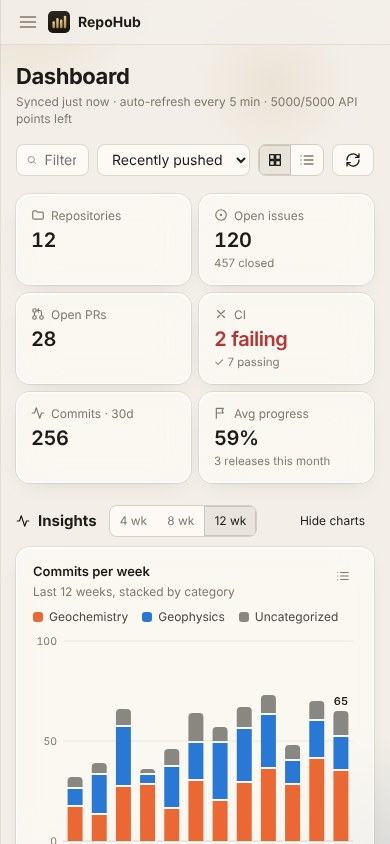
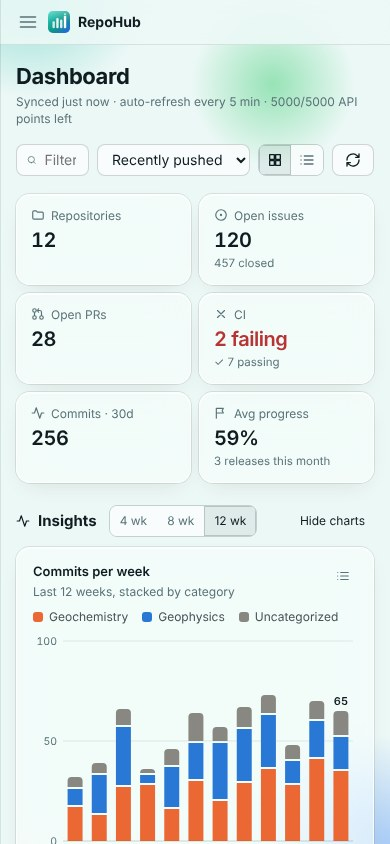
RepoHub: Lagoon colors

diff --git a/repohub/index.html b/repohub/index.html
@@ -11,19 +11,19 @@
 <meta property="og:image" content="https://duserzym.github.io/repohub/img/dashboard.jpg">
 <style>
   :root {
-    --bg: #f3efe8; --ink: #1d1b18; --ink-2: #4b463e; --muted: #80786b;
-    --accent: #846430; --accent-2: #a9864a; --accent-fg: #fffaf3;
-    --glass: rgb(255 253 249 / 0.6); --edge: rgb(255 255 255 / 0.75); --line: rgb(70 56 36 / 0.11);
-    --blob-1: rgb(196 160 98 / 0.24); --blob-2: rgb(118 140 164 / 0.2);
+    --bg: #ecf8f6; --ink: #0f1d20; --ink-2: #3a5257; --muted: #5a7378;
+    --accent: #0a7d84; --accent-2: #14b8a6; --accent-fg: #ffffff; --grad-a: #0a7d84; --grad-b: #2563eb;
+    --glass: rgb(255 255 255 / 0.62); --edge: rgb(255 255 255 / 0.8); --line: rgb(15 29 32 / 0.1);
+    --blob-1: rgb(20 184 166 / 0.34); --blob-2: rgb(59 130 246 / 0.3); --blob-3: rgb(34 197 94 / 0.26);
     --good: #2e9e4f; --warn: #e2a72a; --bad: #d64545; --none: #a39c90;
     color-scheme: light;
   }
   @media (prefers-color-scheme: dark) {
     :root {
-      --bg: #101115; --ink: #ece7de; --ink-2: #c8c0b3; --muted: #8e877b;
-      --accent: #d4b47e; --accent-2: #e6cc9c; --accent-fg: #1b160d;
-      --glass: rgb(32 33 40 / 0.55); --edge: rgb(255 255 255 / 0.08); --line: rgb(255 255 255 / 0.09);
-      --blob-1: rgb(196 160 98 / 0.14); --blob-2: rgb(84 106 150 / 0.2);
+      --bg: #081419; --ink: #e4f3f2; --ink-2: #b9d3d3; --muted: #7f9a9d;
+      --accent: #2ed3bf; --accent-2: #7ce8db; --accent-fg: #062024; --grad-a: #2ed3bf; --grad-b: #60a5fa;
+      --glass: rgb(20 38 44 / 0.55); --edge: rgb(255 255 255 / 0.08); --line: rgb(255 255 255 / 0.09);
+      --blob-1: rgb(46 211 191 / 0.2); --blob-2: rgb(37 99 235 / 0.3); --blob-3: rgb(16 185 129 / 0.18);
       color-scheme: dark;
     }
   }
@@ -32,11 +32,12 @@
   body { margin: 0; color: var(--ink); background: var(--bg); font: 16px/1.55 -apple-system, BlinkMacSystemFont, "SF Pro Text", "Segoe UI", Inter, Roboto, sans-serif; -webkit-font-smoothing: antialiased; }
   body::before { content: ""; position: fixed; inset: 0; z-index: -1; background:
       radial-gradient(48vw 40vw at 5% 0%, var(--blob-1), transparent 70%),
-      radial-gradient(50vw 44vw at 100% 70%, var(--blob-2), transparent 70%), var(--bg); }
+      radial-gradient(50vw 44vw at 100% 70%, var(--blob-2), transparent 70%),
+      radial-gradient(36vw 32vw at 70% 8%, var(--blob-3), transparent 70%), var(--bg); }
   a { color: var(--accent); text-decoration: none; }
   a:hover { text-decoration: underline; }
   .wrap { max-width: 1120px; margin: 0 auto; padding: 0 20px; }
-  .glass { background: var(--glass); border: 1px solid var(--edge); box-shadow: 0 1px 0 rgb(255 255 255 / 0.3) inset, 0 14px 40px -22px rgb(40 30 10 / 0.45), 0 0 0 1px var(--line);
+  .glass { background: var(--glass); border: 1px solid var(--edge); box-shadow: 0 1px 0 rgb(255 255 255 / 0.3) inset, 0 14px 40px -22px rgb(10 40 45 / 0.4), 0 0 0 1px var(--line);
     -webkit-backdrop-filter: blur(18px) saturate(150%); backdrop-filter: blur(18px) saturate(150%); border-radius: 18px; }
 
   nav.top { position: sticky; top: 0; z-index: 10; padding: 12px 0; }
@@ -53,7 +54,7 @@
   header.hero { padding: 56px 0 28px; text-align: center; }
   .hero img.icon { width: 88px; height: 88px; border-radius: 22px; box-shadow: 0 18px 40px -18px rgb(0 0 0 / 0.5); }
   h1 { font-size: clamp(34px, 6vw, 58px); line-height: 1.05; letter-spacing: -0.035em; margin: 22px 0 14px; font-weight: 700; }
-  h1 em { font-style: normal; background: linear-gradient(90deg, var(--accent), var(--accent-2)); -webkit-background-clip: text; background-clip: text; color: transparent; }
+  h1 em { font-style: normal; background: linear-gradient(90deg, var(--grad-a), var(--grad-b)); -webkit-background-clip: text; background-clip: text; color: transparent; }
   .lede { font-size: clamp(17px, 2.2vw, 20px); color: var(--ink-2); max-width: 660px; margin: 0 auto 26px; }
   .cta { display: flex; gap: 10px; justify-content: center; flex-wrap: wrap; }
   .platforms { margin-top: 14px; font-size: 13.5px; color: var(--muted); }
@@ -138,7 +139,7 @@
       <div class="feature glass"><svg width="22" height="22" viewBox="0 0 24 24" fill="none" stroke="currentColor" stroke-width="2" stroke-linecap="round"><path d="M3 7a2 2 0 0 1 2-2h4l2 2h8a2 2 0 0 1 2 2v8a2 2 0 0 1-2 2H5a2 2 0 0 1-2-2z"/></svg><h3>Your own categories</h3><p>Starts with Geochemistry and Geophysics. Add, rename and recolor categories as you like, and keyword rules sort repos into them automatically.</p></div>
       <div class="feature glass"><svg width="22" height="22" viewBox="0 0 24 24" fill="none" stroke="currentColor" stroke-width="2" stroke-linecap="round"><circle cx="11" cy="11" r="8"/><path d="m21 21-4.3-4.3"/></svg><h3>Discover ready-to-use projects</h3><p>Search GitHub by topic, filtering for maintained, licensed and well-starred projects. Track them next to your own repos.</p></div>
       <div class="feature glass"><svg width="22" height="22" viewBox="0 0 24 24" fill="none" stroke="currentColor" stroke-width="2" stroke-linecap="round"><rect x="3" y="3" width="18" height="18" rx="5"/><circle cx="9" cy="10" r="2"/><path d="m21 16-5-5-8 8"/></svg><h3>Repo icons, automatically</h3><p>RepoHub reads each project's own logo or icon file. Private repos work too, and you can override any icon.</p></div>
-      <div class="feature glass"><svg width="22" height="22" viewBox="0 0 24 24" fill="none" stroke="currentColor" stroke-width="2" stroke-linecap="round"><circle cx="12" cy="12" r="9"/><path d="M12 3a9 9 0 0 0 0 18z" fill="currentColor"/></svg><h3>Ten quiet themes</h3><p>Ivory &amp; Brass, Glacier &amp; Slate, Basalt &amp; Copper and seven more, each with light and dark modes, on frosted glass.</p></div>
+      <div class="feature glass"><svg width="22" height="22" viewBox="0 0 24 24" fill="none" stroke="currentColor" stroke-width="2" stroke-linecap="round"><circle cx="12" cy="12" r="9"/><path d="M12 3a9 9 0 0 0 0 18z" fill="currentColor"/></svg><h3>Eleven themes</h3><p>Lagoon, Ivory &amp; Brass, Glacier &amp; Slate and eight more, each with light and dark modes, on frosted glass.</p></div>
     </div>
   </section>
 
@@ -166,7 +167,7 @@
     <div class="kicker">Get started</div>
     <h2>Up and running in a minute</h2>
     <div class="steps">
-      <div class="step glass"><h3>Install</h3><p>Download the installer for macOS or Windows from <a href="https://github.com/duserzym/repohub/releases/latest">Releases</a>, or build from source by double-clicking <code>Install RepoHub.command</code>.</p></div>
+      <div class="step glass"><h3>Install</h3><p>Download the <code>.dmg</code> (macOS) or installer (Windows) from <a href="https://github.com/duserzym/repohub/releases/latest">Releases</a>. On a Mac, the first time you open RepoHub, click <b>Open Anyway</b> in System Settings → Privacy &amp; Security. Later updates install from inside the app.</p></div>
       <div class="step glass"><h3>Sign in with GitHub</h3><p>Click one button. GitHub opens in your browser with a one-time code that's already on your clipboard. Approve, and you're in.</p></div>
       <div class="step glass"><h3>Organize</h3><p>Your repos sort themselves into categories. Pin favorites, track projects you find in Discover, and pick a theme.</p></div>
     </div>
